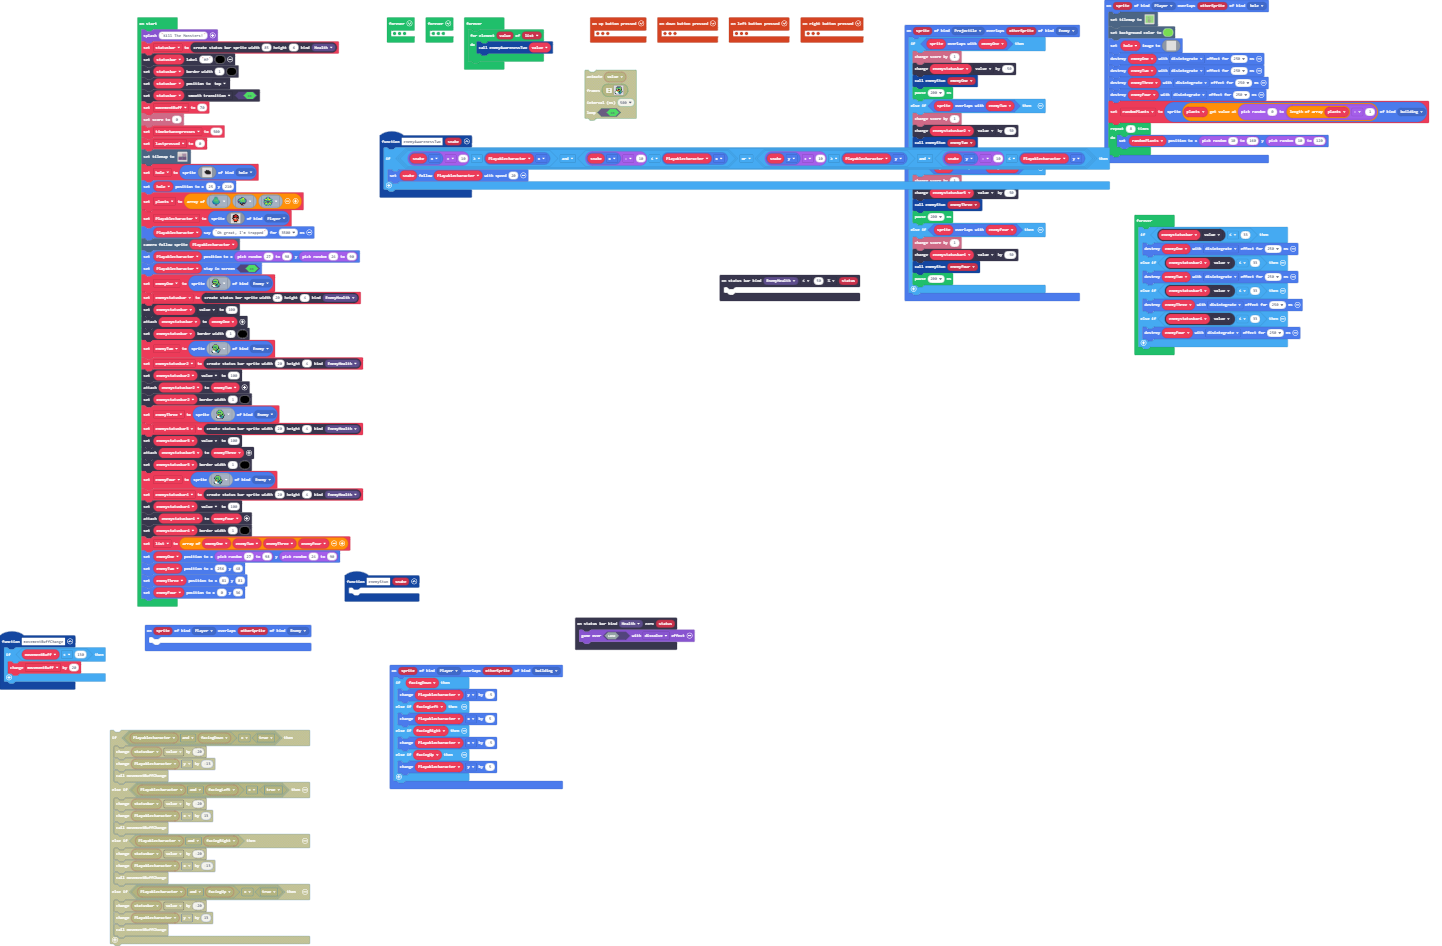
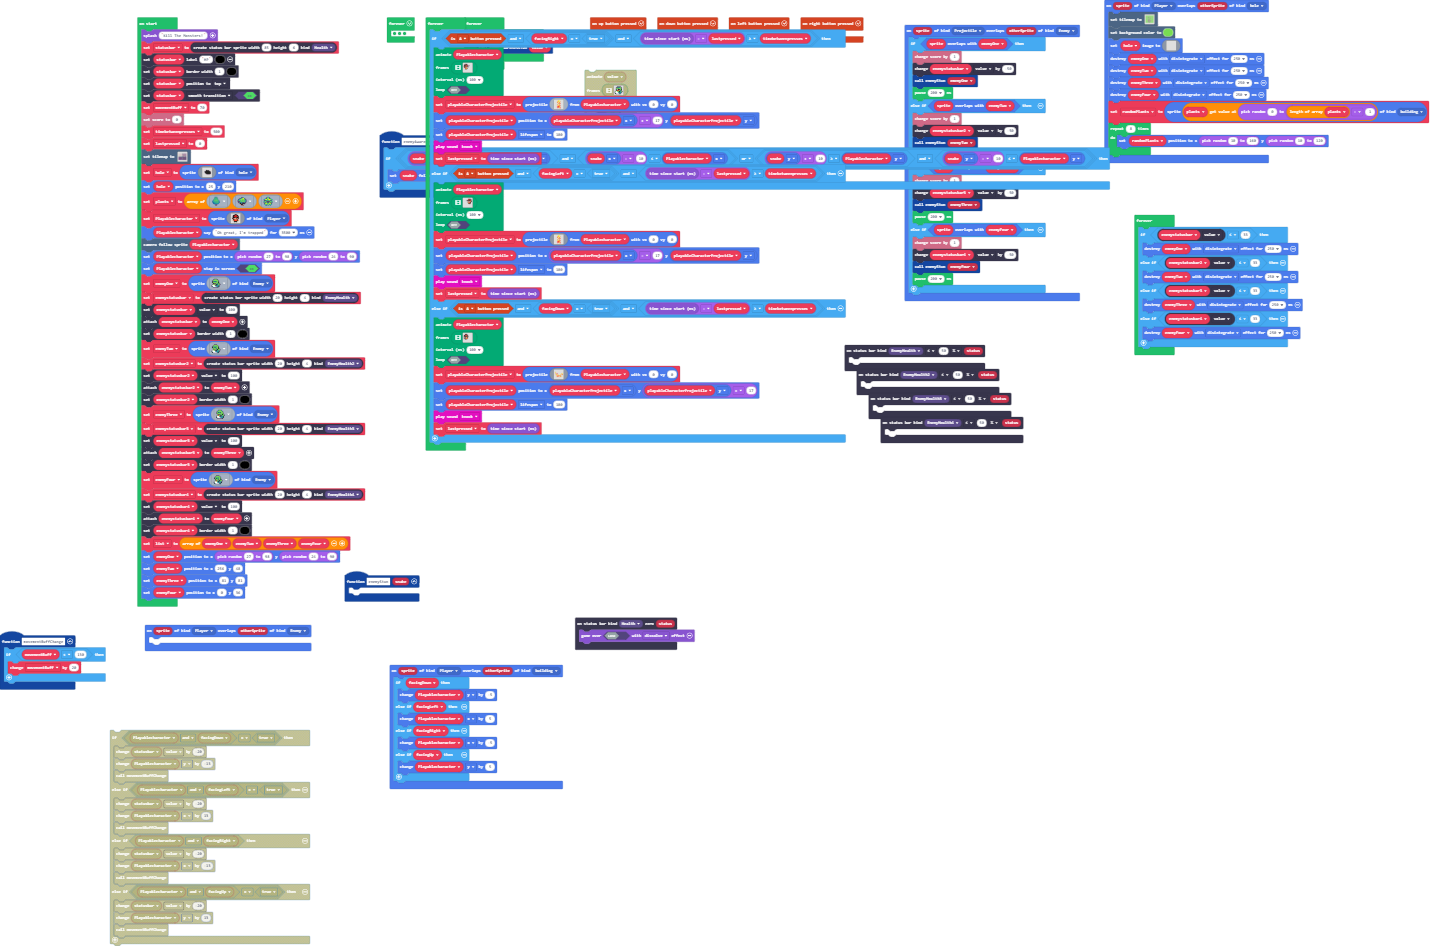
Update main.blocks, main.ts

Changed region(s): [[0.2809, 0.0, 0.7178, 0.4905]]

diff --git a/main.ts b/main.ts
@@ -7,6 +7,17 @@ namespace SpriteKind {
     export const building = SpriteKind.create()
     export const hole = SpriteKind.create()
 }
+namespace StatusBarKind {
+    export const EnemyHealth2 = StatusBarKind.create()
+    export const EnemyHealth3 = StatusBarKind.create()
+    export const EnemyHealth4 = StatusBarKind.create()
+}
+statusbars.onStatusReached(StatusBarKind.EnemyHealth2, statusbars.StatusComparison.LTE, statusbars.ComparisonType.Percentage, 50, function (status) {
+	
+})
+statusbars.onStatusReached(StatusBarKind.EnemyHealth4, statusbars.StatusComparison.LTE, statusbars.ComparisonType.Percentage, 50, function (status) {
+	
+})
 controller.up.onEvent(ControllerButtonEvent.Pressed, function () {
     facingUp = true
     facingRight = false
@@ -223,6 +234,9 @@ function movementBuffChange () {
         movementBuff += 20
     }
 }
+statusbars.onStatusReached(StatusBarKind.EnemyHealth3, statusbars.StatusComparison.LTE, statusbars.ComparisonType.Percentage, 50, function (status) {
+	
+})
 statusbars.onZero(StatusBarKind.Health, function (status) {
     game.over(false, effects.dissolve)
 })
@@ -487,17 +501,17 @@ enemystatusbar.value = 100
 enemystatusbar.attachToSprite(ememyOne)
 enemystatusbar.setBarBorder(1, 15)
 enemyTwo = sprites.create(sprites.builtin.forestSnake0, SpriteKind.Enemy)
-enemystatusbar2 = statusbars.create(20, 4, StatusBarKind.EnemyHealth)
+enemystatusbar2 = statusbars.create(20, 4, StatusBarKind.EnemyHealth2)
 enemystatusbar2.value = 100
 enemystatusbar2.attachToSprite(enemyTwo)
 enemystatusbar2.setBarBorder(1, 15)
 enemyThree = sprites.create(sprites.builtin.forestSnake0, SpriteKind.Enemy)
-enemystatusbar3 = statusbars.create(20, 4, StatusBarKind.EnemyHealth)
+enemystatusbar3 = statusbars.create(20, 4, StatusBarKind.EnemyHealth3)
 enemystatusbar3.value = 100
 enemystatusbar3.attachToSprite(enemyThree)
 enemystatusbar3.setBarBorder(1, 15)
 enemyFour = sprites.create(sprites.builtin.forestSnake0, SpriteKind.Enemy)
-enemystatusbar4 = statusbars.create(20, 4, StatusBarKind.EnemyHealth)
+enemystatusbar4 = statusbars.create(20, 4, StatusBarKind.EnemyHealth4)
 enemystatusbar4.value = 100
 enemystatusbar4.attachToSprite(enemyFour)
 enemystatusbar4.setBarBorder(1, 15)
